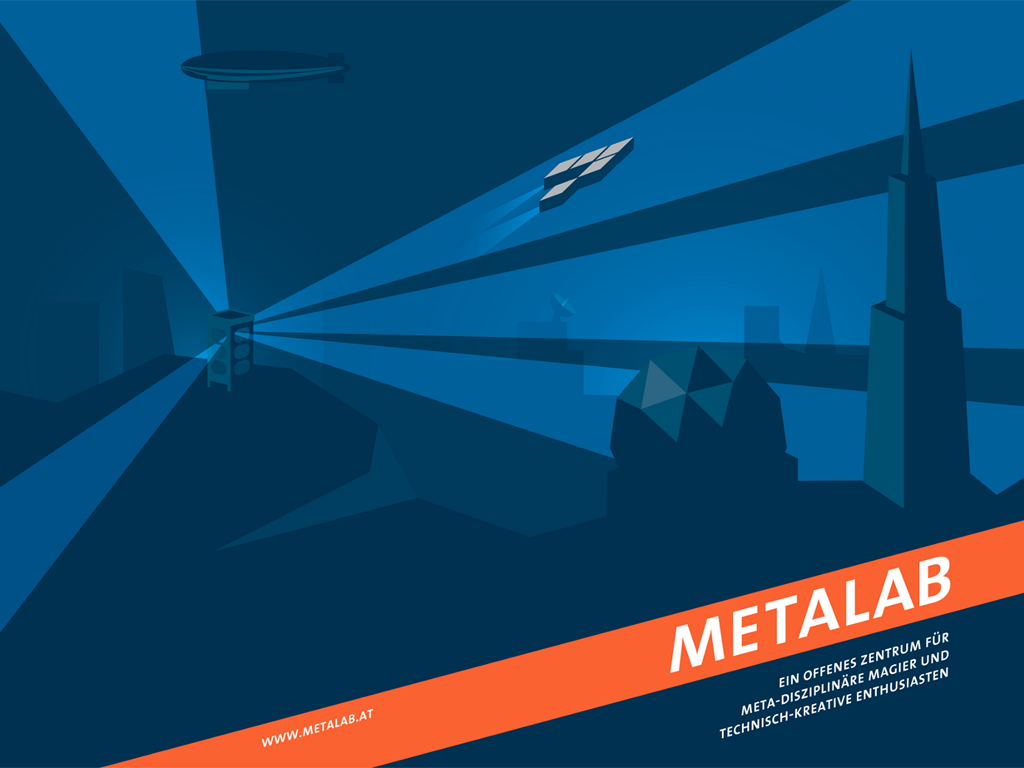
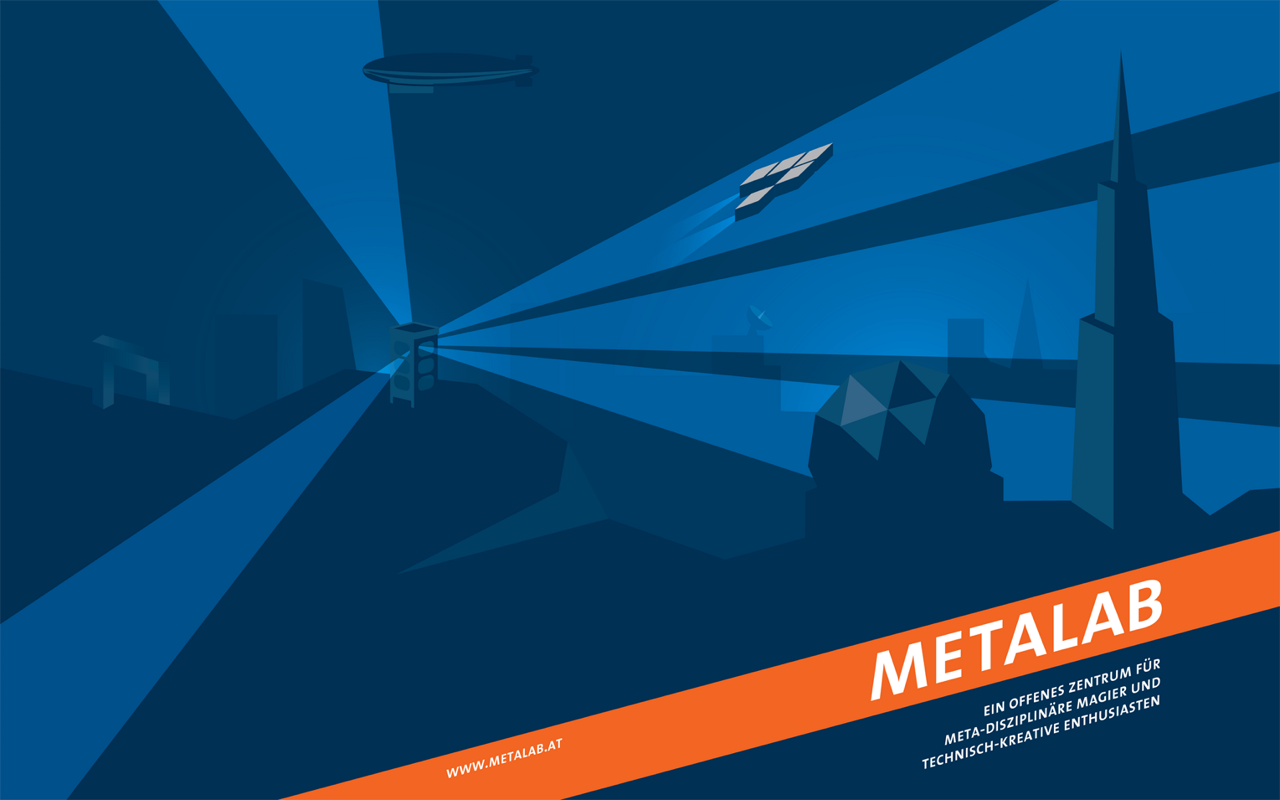
Unspecified changes to the cellardoor design.

diff --git a/metalab/media/stylesheets/cellardoor.css b/metalab/media/stylesheets/cellardoor.css
@@ -10,17 +10,16 @@ body {
 
 
 #container {
- width:1024px;
- height:768 px;
+ width:1280px;
+ height:800px;
  overflow:hidden;
 }
 
 #eventliste {
  width:400px;
- /*height:600px;*/
  position:absolute;
  top:60px;
- left:635px;
+ left:891px;
 }
 
 #event_anounce {
